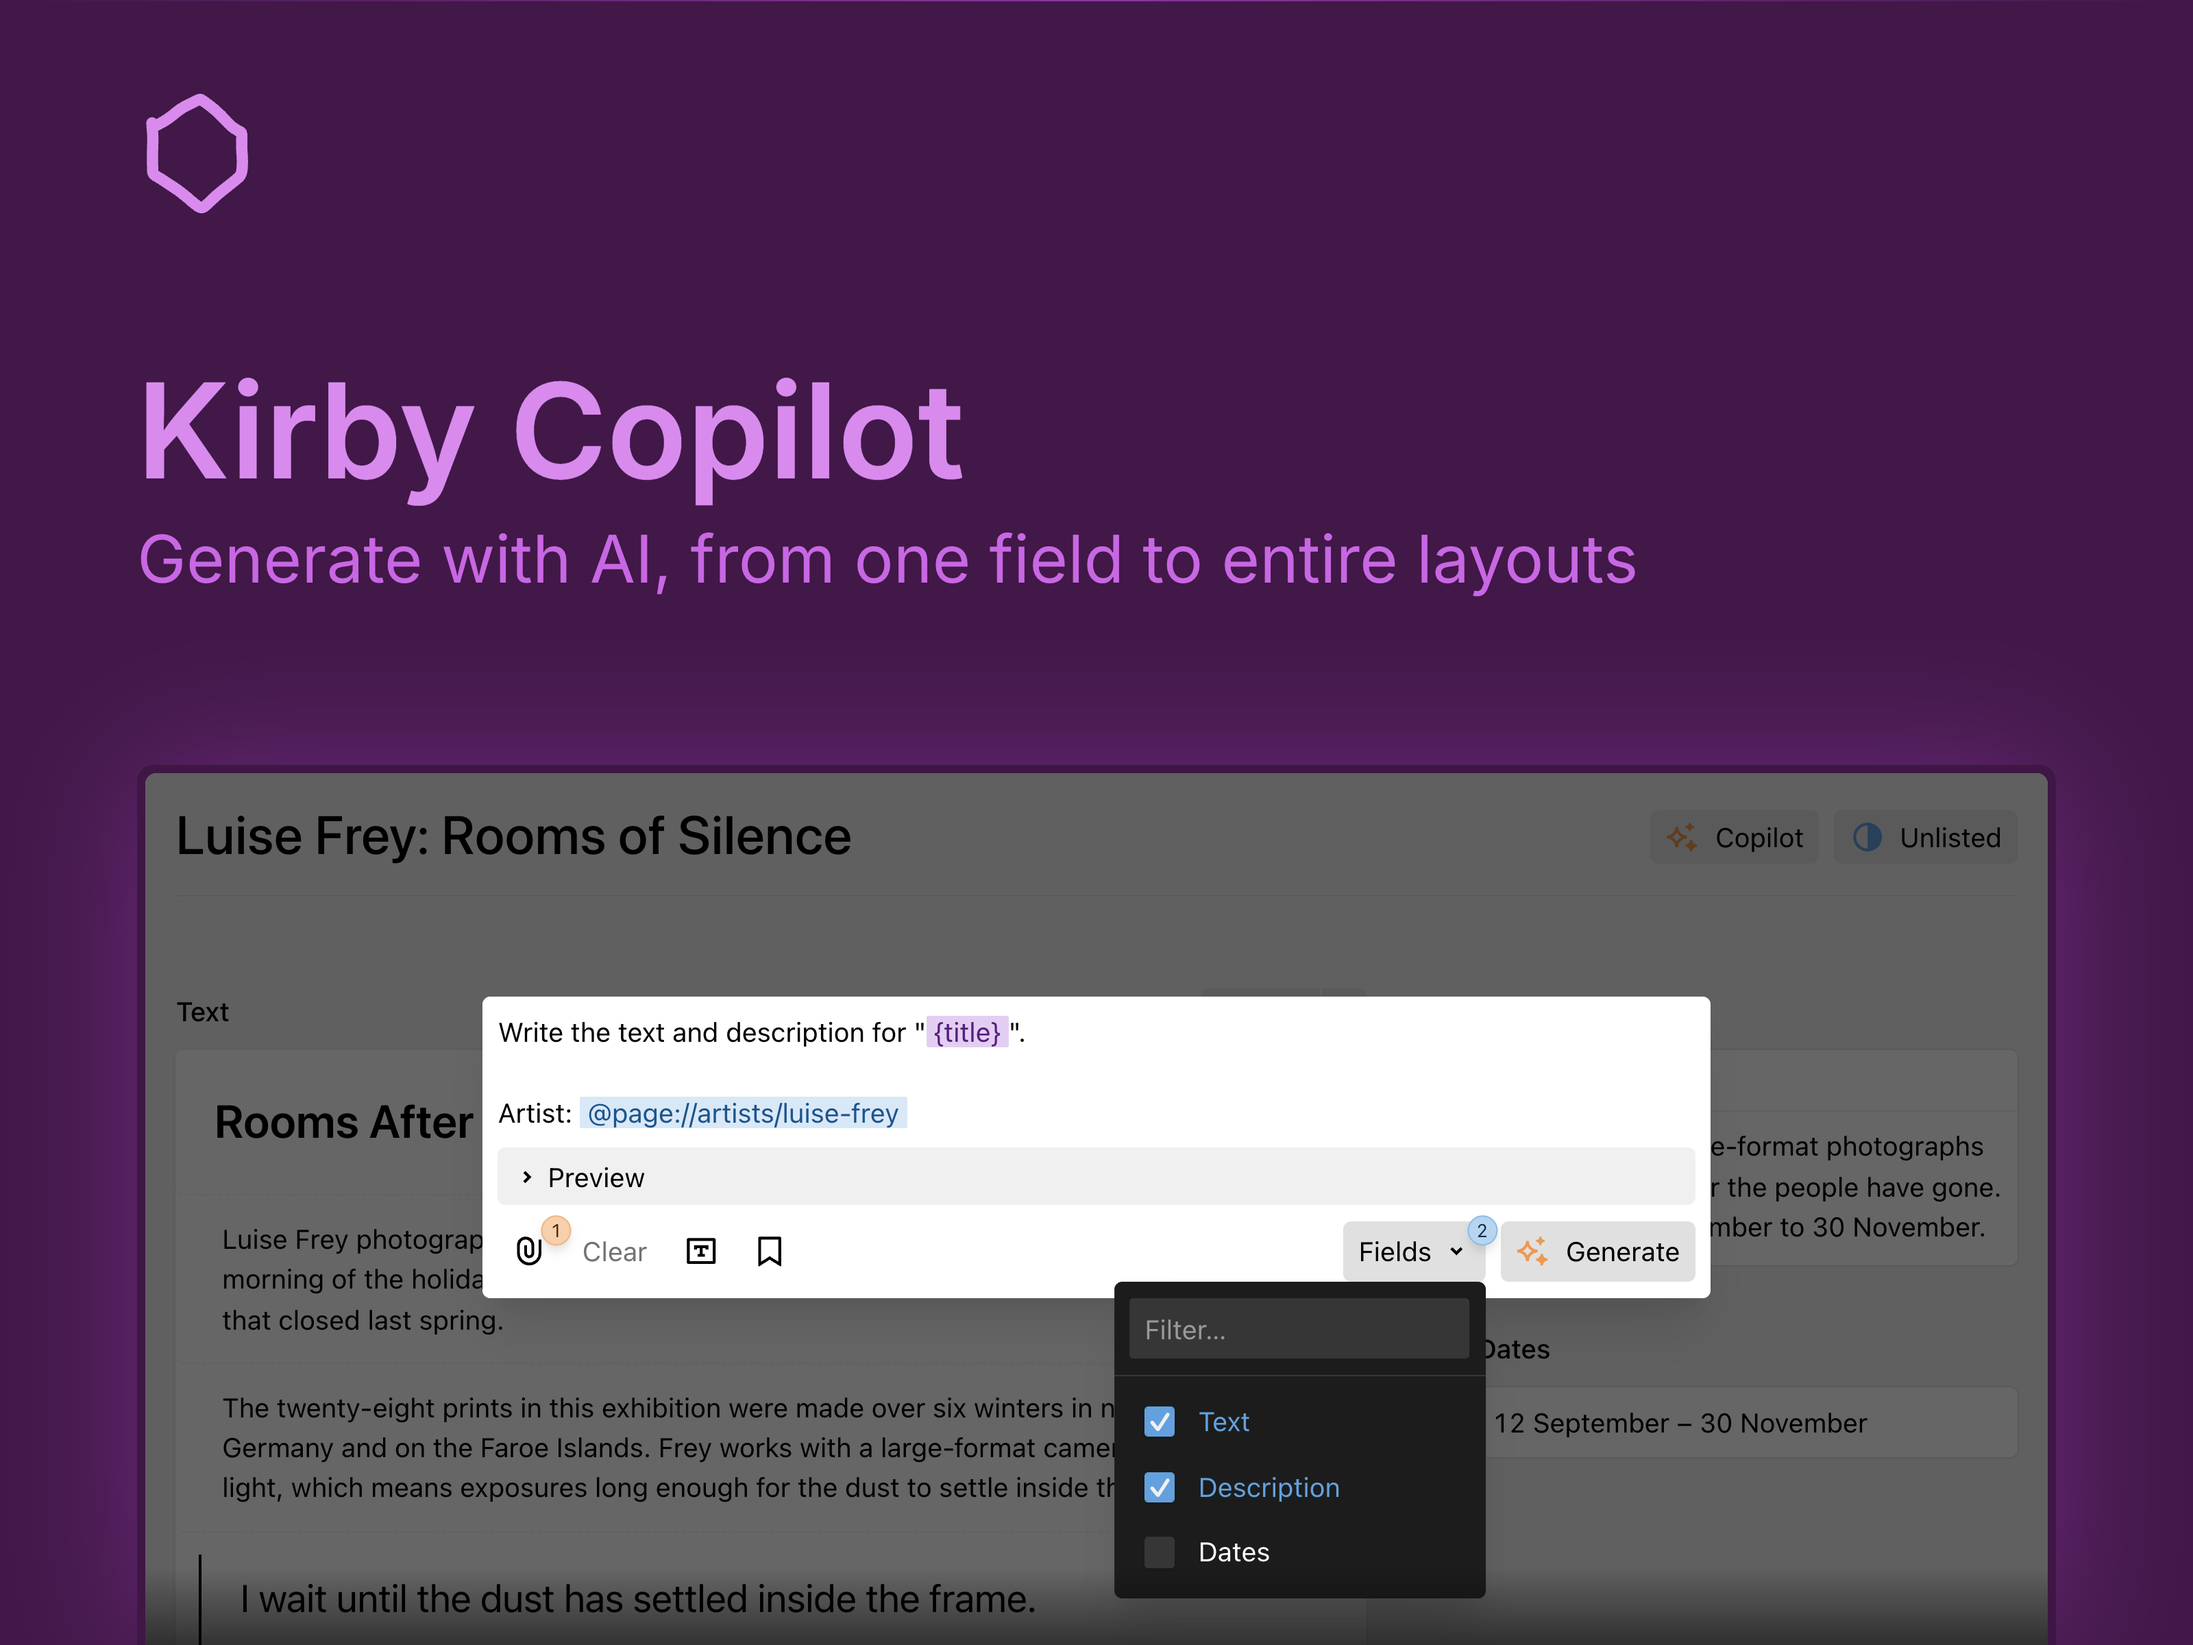
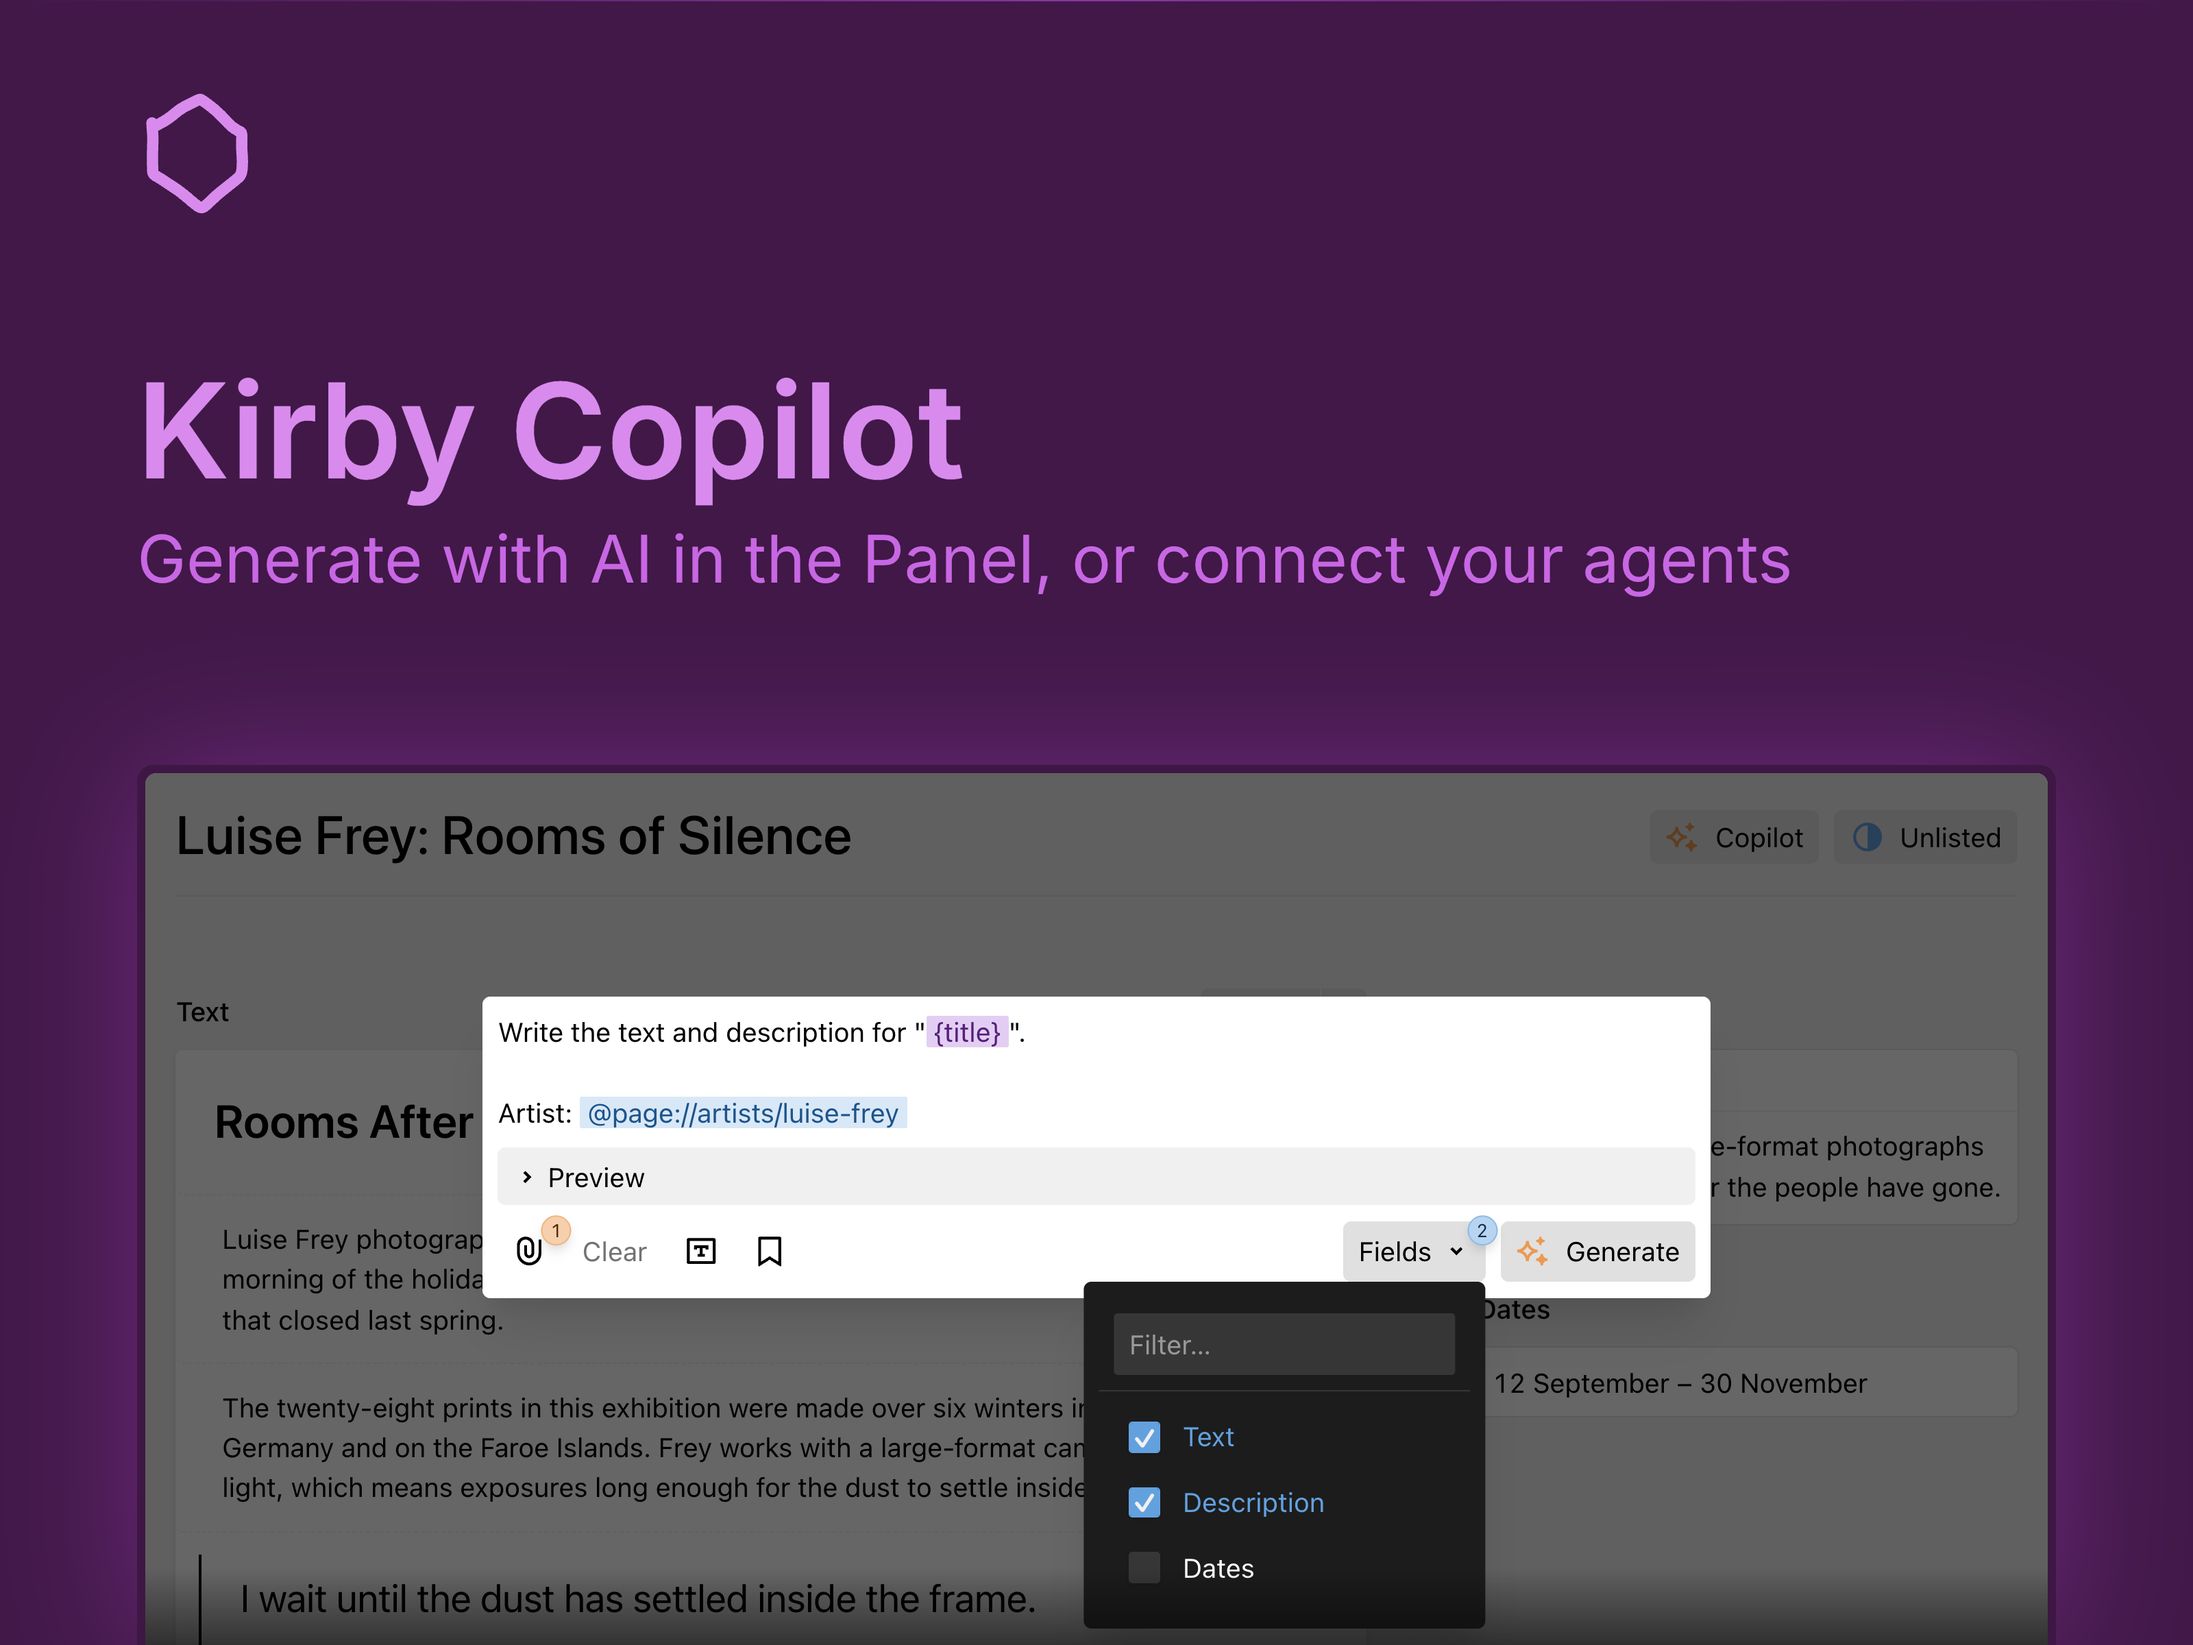
docs(products): drop the Panel from menu lines and give Copilot, Translator, and SEO Audit new taglines

Changed region(s): [[0.4688, 0.7812, 0.8438, 1.0], [0.3125, 0.3125, 0.8125, 0.375]]

diff --git a/shared/products.ts b/shared/products.ts
@@ -9,7 +9,11 @@ export interface Product {
   label: string;
   /** The line under the name in menus. */
   description: string;
-  /** The one-line pitch, short enough for one line of the SocialCard. */
+  /**
+   * The one-line pitch, short enough for one line of the SocialCard. The
+   * Plugin's `composer.json` description and, after an emoji, its GitHub About
+   * repeat it verbatim.
+   */
   tagline: string;
   icon: string;
   license: ProductLicense;
@@ -53,8 +57,8 @@ const PRODUCT_REGISTRY = {
   copilot: {
     name: "Kirby Copilot",
     label: "Copilot",
-    description: "AI generation in the Panel and from agents",
-    tagline: "Generate with AI, from one field to entire layouts",
+    description: "AI generation and MCP for agents",
+    tagline: "Generate with AI in the Panel, or connect your agents",
     icon: "i-ri-sparkling-line",
     license: "commercial",
     configKey: "johannschopplich.copilot",
@@ -80,8 +84,8 @@ const PRODUCT_REGISTRY = {
   "content-translator": {
     name: "Kirby Content Translator",
     label: "Content Translator",
-    description: "DeepL and AI translation in the Panel",
-    tagline: "DeepL and AI translation, in the Panel or from the CLI",
+    description: "DeepL and AI translation",
+    tagline: "One click translates a whole page, nested blocks included",
     icon: "i-ri-translate",
     license: "commercial",
     configKey: "johannschopplich.content-translator",
@@ -105,8 +109,8 @@ const PRODUCT_REGISTRY = {
   "seo-audit": {
     name: "Kirby SEO Audit",
     label: "SEO Audit",
-    description: "Yoast SEO analysis in the Panel",
-    tagline: "Yoast SEO and readability analysis, rated in the Panel",
+    description: "Yoast SEO analysis",
+    tagline: "Yoast SEO and readability checks before the page goes live",
     icon: "i-ri-seo-line",
     license: "commercial",
     configKey: "johannschopplich.seo-audit",
@@ -151,7 +155,7 @@ const PRODUCT_REGISTRY = {
   "serp-preview": {
     name: "Kirby SERP Preview",
     label: "SERP Preview",
-    description: "Google search result preview in the Panel",
+    description: "Google search result preview",
     tagline: "See the Google snippet as you type",
     icon: "i-ri-search-eye-line",
     license: "free",
